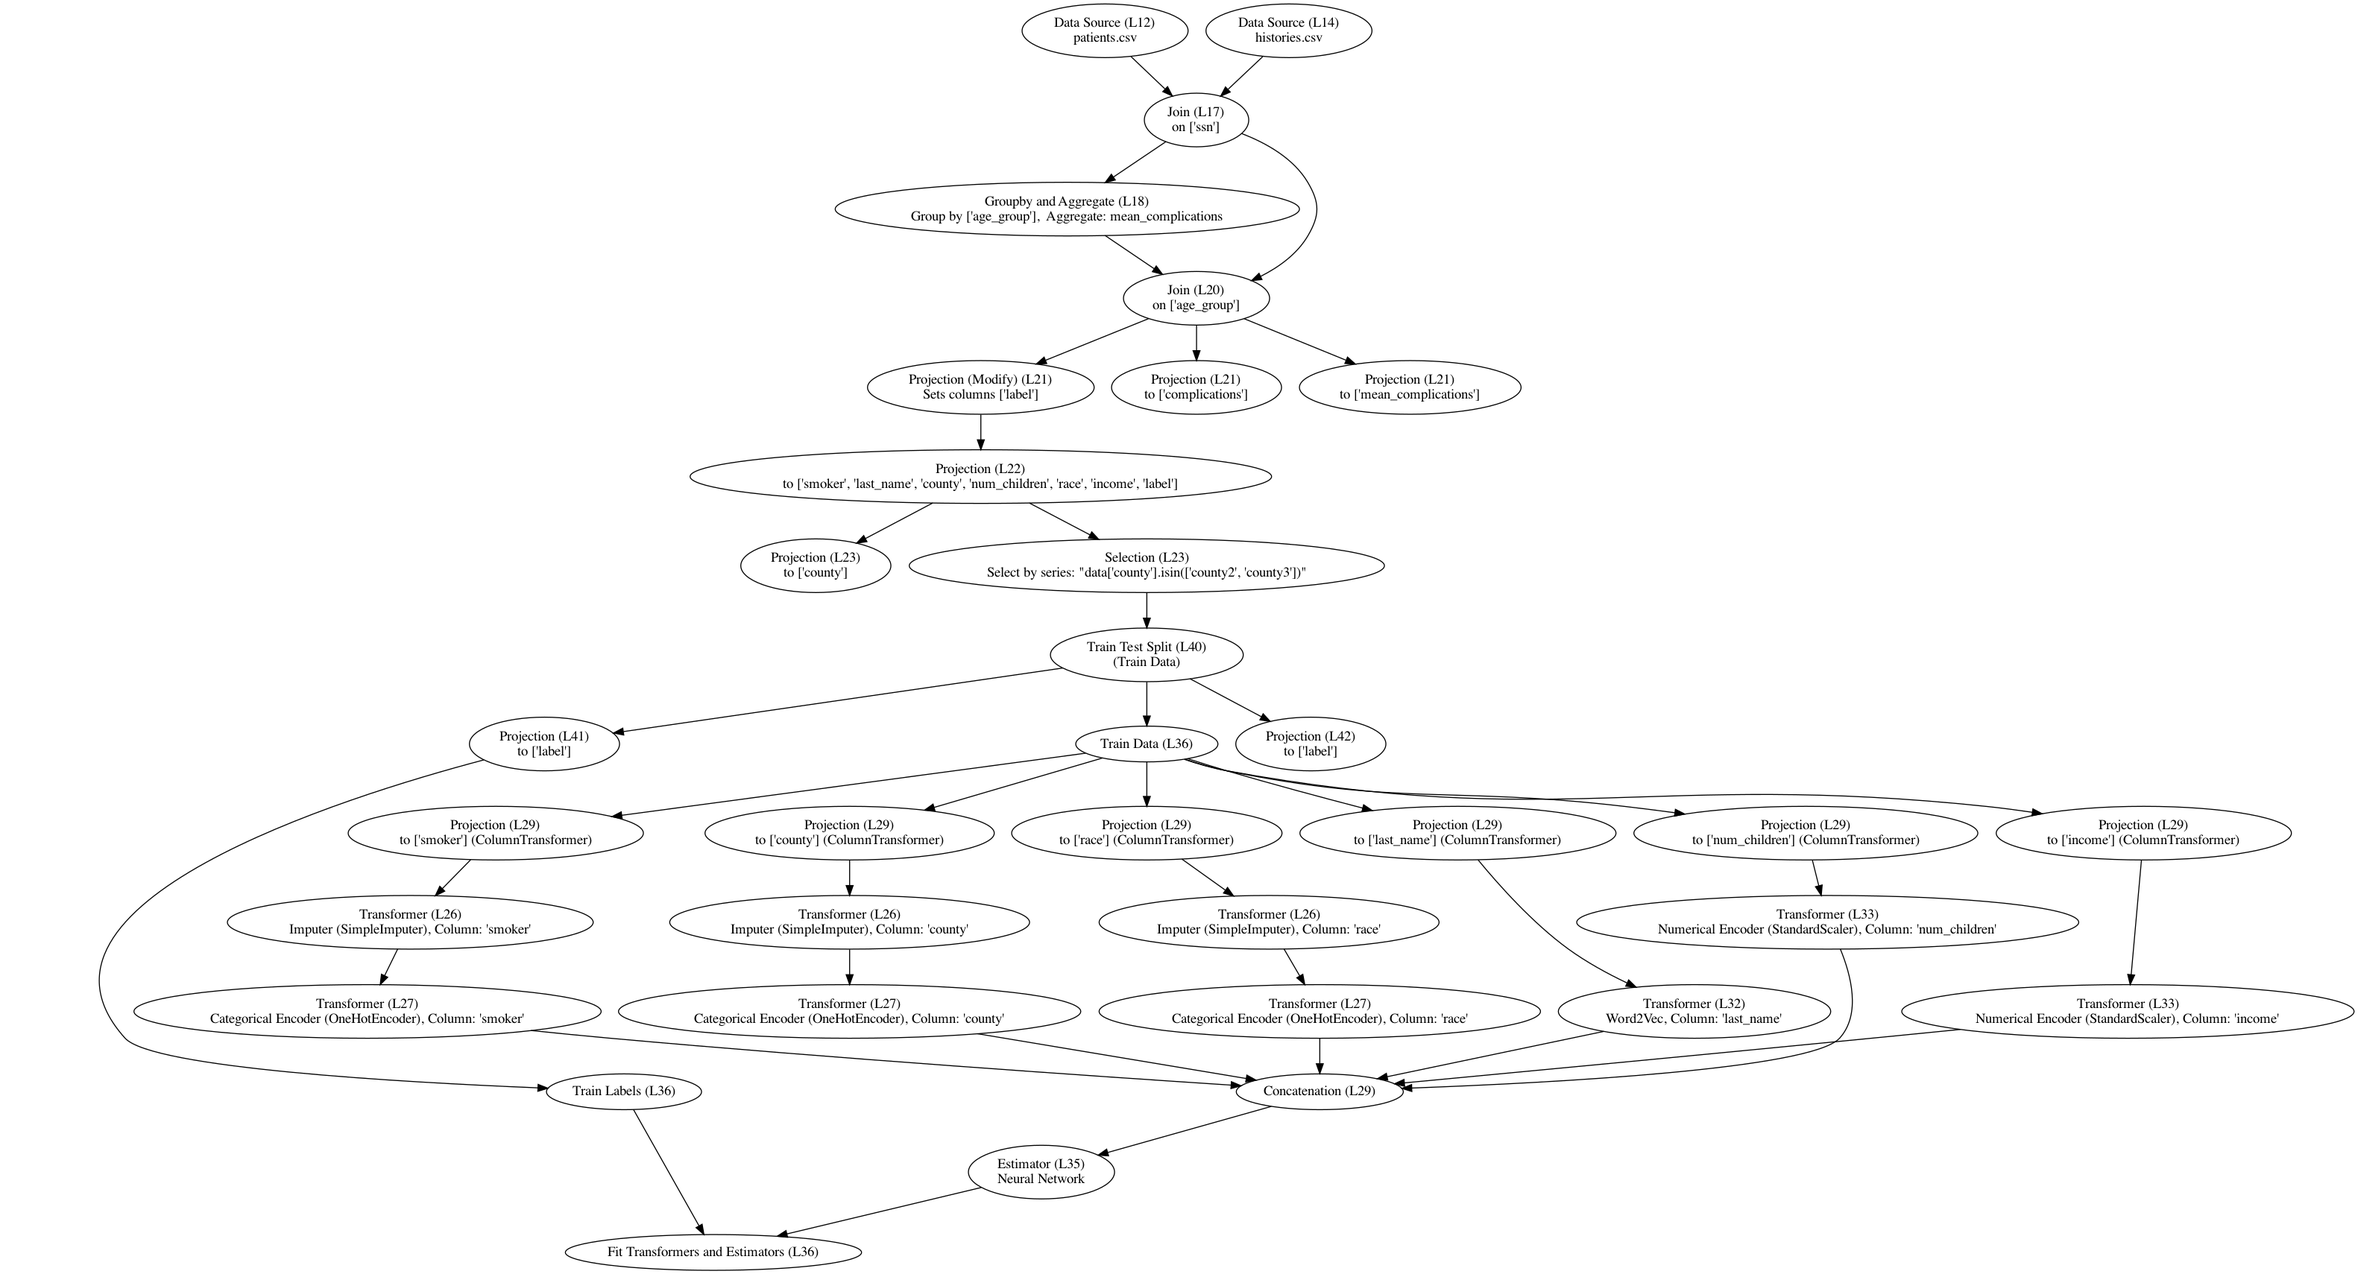
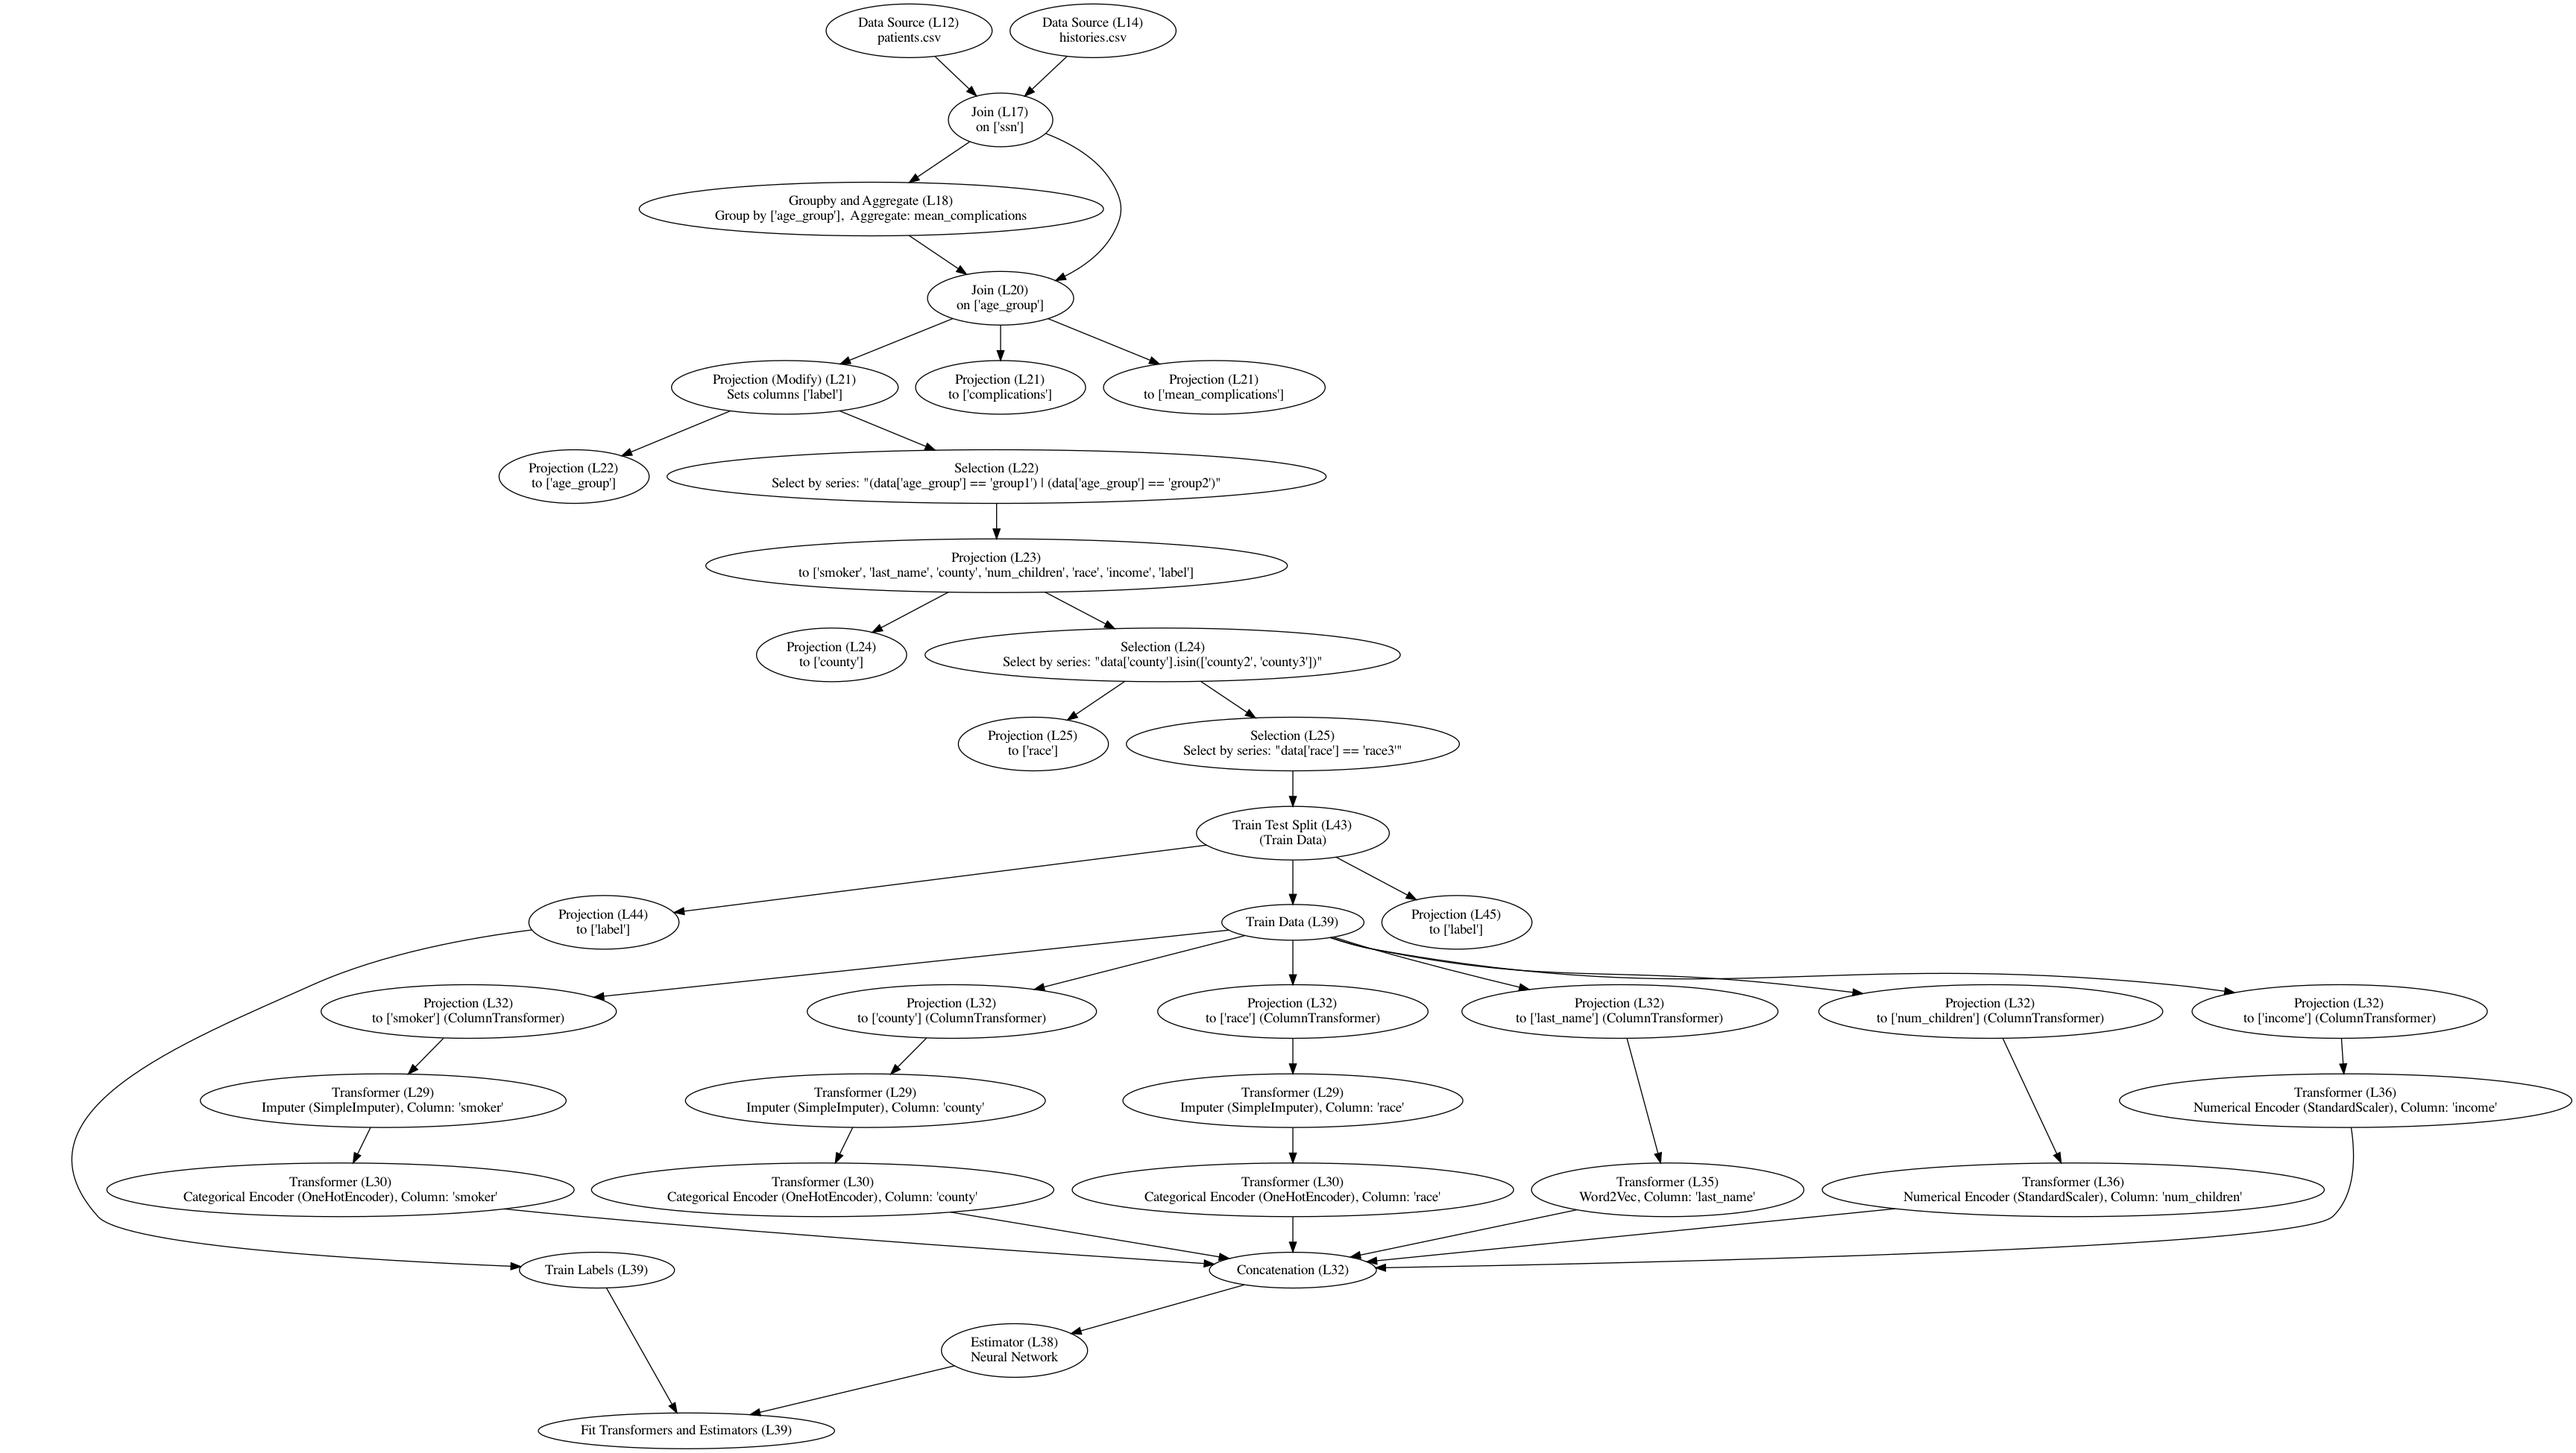
Add suggestions on how to change the healthcare pipeline during the demo

diff --git a/example_pipelines/healthcare/healthcare.py b/example_pipelines/healthcare/healthcare.py
@@ -19,16 +19,19 @@ complications = data.groupby('age_group') \
     .agg(mean_complications=('complications', 'mean'))
 data = data.merge(complications, on=['age_group'])
 data['label'] = data['complications'] > 1.2 * data['mean_complications']
+# data = data[(data['age_group'] == 'group1') | (data['age_group'] == 'group2')]
 data = data[['smoker', 'last_name', 'county', 'num_children', 'race', 'income', 'label']]
-data = data[data['county'].isin(['county2', 'county3'])]
+data = data[data['county'].isin(['county2', 'county3'])]  # Add or remove this line, modify counties
+# data = data[data['race'] == 'race3']
 
+# data = data.dropna()  # Add this line and/or remove the imputer
 impute_and_one_hot_encode = Pipeline([
     ('impute', SimpleImputer(strategy='most_frequent')),
-    ('encode', OneHotEncoder(sparse=False, handle_unknown='ignore'))
+    ('encode', OneHotEncoder(sparse=False, handle_unknown='ignore'))  # Test sparse=True
 ])
 featurisation = ColumnTransformer(transformers=[
     ("impute_and_one_hot_encode", impute_and_one_hot_encode,
-     ['smoker', 'county', 'race']),
+     ['smoker', 'county', 'race']),  # Remove/add feature columns, e.g., remove race
     ('word2vec', MyW2VTransformer(min_count=2), ['last_name']),
     ('numeric', StandardScaler(), ['num_children', 'income'])
 ])
@@ -38,5 +41,5 @@ pipeline = Pipeline([
     ('learner', neural_net)])
 
 train_data, test_data = train_test_split(data)
-model = pipeline.fit(train_data, train_data['label'])
+model = pipeline.fit(train_data, train_data['label'])  # Use/do not use a train/test split
 print("Mean accuracy: {}".format(model.score(test_data, test_data['label'])))

diff --git a/mlinspect/instrumentation/_wir_extractor.py b/mlinspect/instrumentation/_wir_extractor.py
@@ -65,7 +65,7 @@ class WirExtractor:
             self.extract_wir_tuple(ast_node)
         elif isinstance(ast_node, (ast.Attribute, ast.Expr, ast.Index, ast.Load, ast.Module, ast.Name, ast.Store,
                                    ast.alias, ast.Gt, ast.Lt, ast.LtE, ast.GtE, ast.Mult, ast.BinOp, ast.Compare,
-                                   ast.Sub, ast.USub, ast.UnaryOp, ast.Eq, ast.NotEq, ast.BitAnd)):
+                                   ast.Sub, ast.USub, ast.UnaryOp, ast.Eq, ast.NotEq, ast.BitAnd, ast.BitOr)):
             pass  # TODO: Test if we really covered all necessary edge cases
         else:
             print("AST Node Type not supported yet: {}!".format(str(ast_node)))
